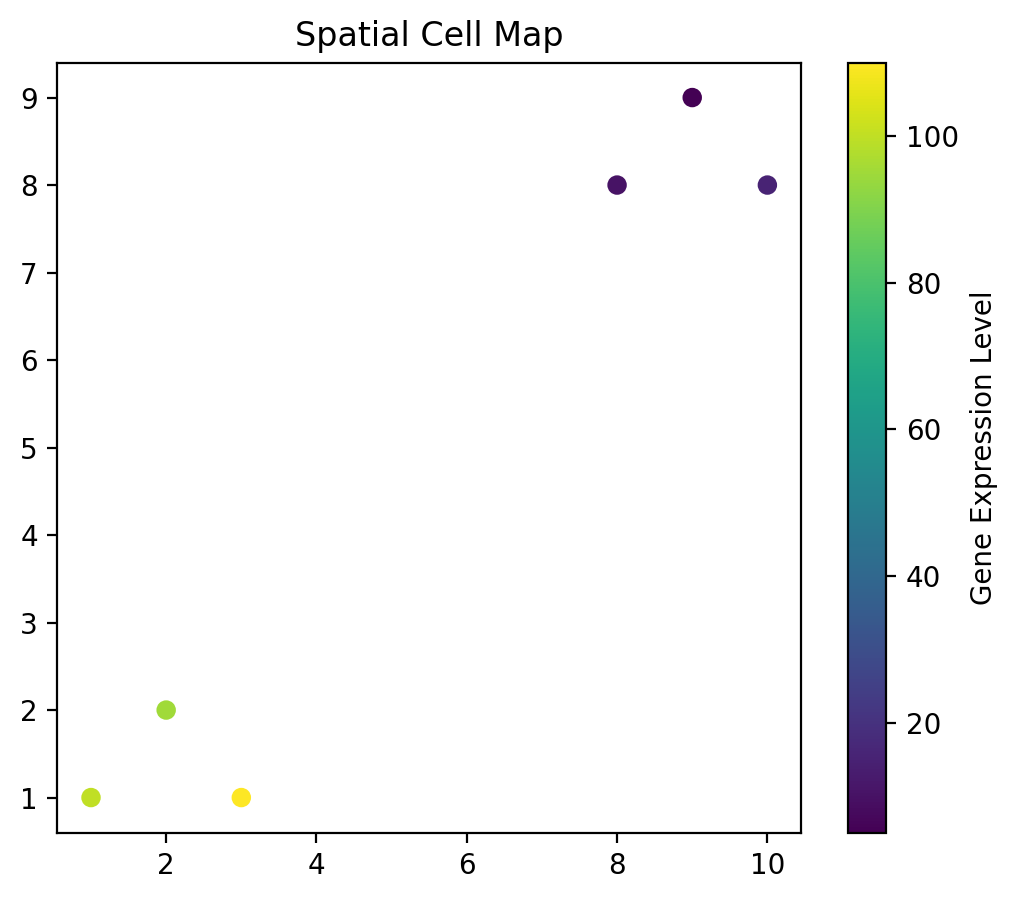
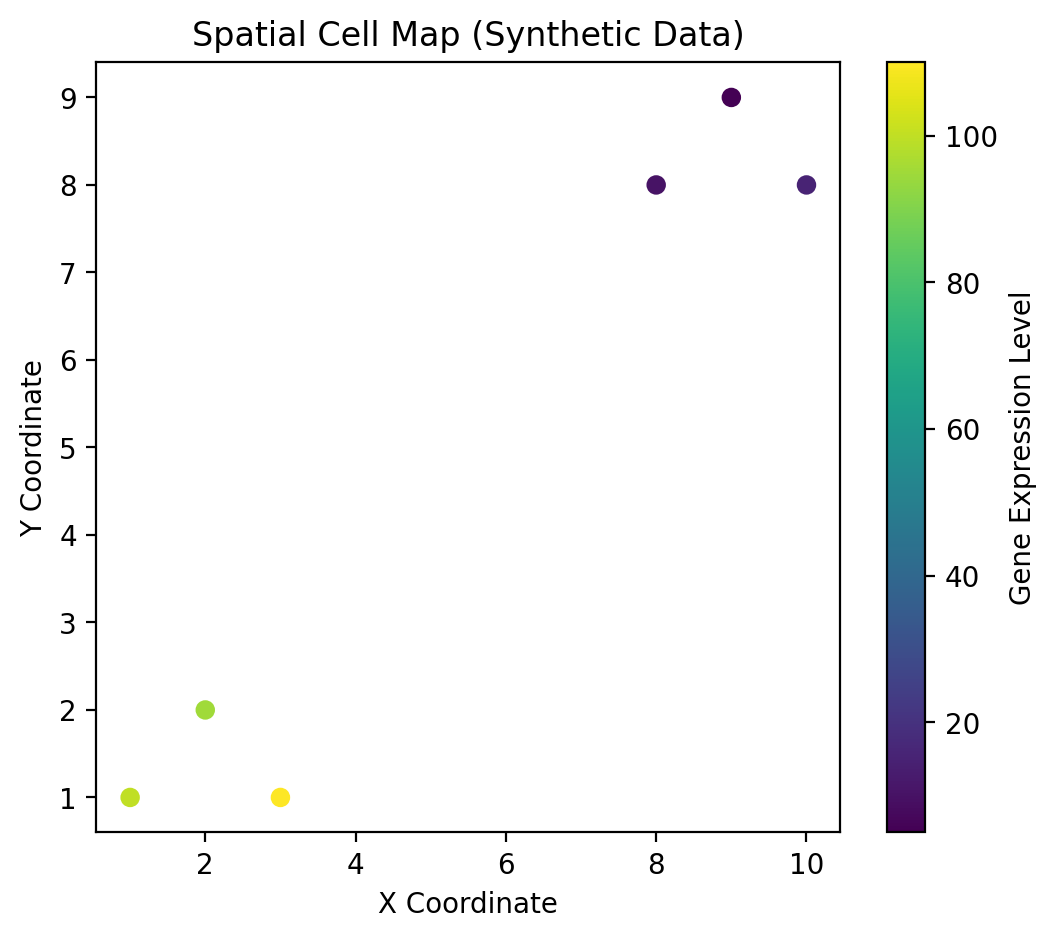
Imporve spatial visualization and documentation

diff --git a/spatial_transcriptomics/src/main.py b/spatial_transcriptomics/src/main.py
@@ -1,0 +1,48 @@
+
+# --- Import Libraries ---
+import matplotlib.pyplot as plt
+import pandas as pd
+
+
+# --- Generate Synthetic Data ---
+# Create example cell coordinates and gene expression values.
+# The first three cells represent a hypothetical cancer group,
+# and the remaining three represent a hypothetical normal group.
+# These labels are illustrative, not experimentally validated.
+
+data = {
+    "x": [1, 2, 3, 8, 9, 10],
+    "y": [1, 2, 1, 8, 9, 8],
+    "gene_expression": [100, 95, 110, 10, 5, 15]
+}
+
+# Convert the dictionary into a pandas DataFrame.
+df = pd.DataFrame(data)
+
+
+# --- Visualize Spatial Gene Expression ---
+# Plot cell locations and color each point by expression level.
+plt.figure(figsize=(6, 5))
+
+plt.scatter(
+    df["x"],
+    df["y"],
+    c=df["gene_expression"],
+    cmap="viridis"
+)
+
+# Add a colorbar to show expression intensity.
+plt.colorbar(label="Gene Expression Level")
+
+# Add labels and a title.
+plt.xlabel("X Coordinate")
+plt.ylabel("Y Coordinate")
+plt.title("Spatial Cell Map (Synthetic Data)")
+
+# Save and display the figure.
+plt.savefig(
+    "../outputs/spatial_cell_map.png",
+    dpi=200,
+    bbox_inches="tight"
+)
+plt.show()

diff --git a/spatial_transcriptomics/README.md b/spatial_transcriptomics/README.md
@@ -1,18 +1,36 @@
-# Spatial Transcriptomics (Toy Example)
+# Spatial Transcriptomics Visualization (Toy Example)
 
 ## Goal
-Build intuition for spatial transcriptomics by visualizing cell coordinates and overlaying a gene expression signal.
 
-## What I did
-- Created a small synthetic dataset of spatial coordinates (x, y) and expression values.
-- Plotted cells on a 2D map with color representing gene expression intensity.
-- Added a colorbar to enable quantitative interpretation.
-- Saved the figure to `outputs/` for reproducibility.
+Build a basic understanding of spatial transcriptomics by visualizing cell coordinates and gene expression levels.
 
-## Project structure
-- `src/main.py`: generates the synthetic data and plot
-- `outputs/spatial_cell_map.png`: saved figure
+## What I Did
 
-## Notes / Limitations
-- This is toy data (not real spatial transcriptomics).
-- Real workflows include QC, normalization, and spatial neighborhood analysis (often using tools like Scanpy/Squidpy).
+- Created a small synthetic dataset containing six cells with spatial coordinates (x, y) and gene expression values.
+- Used pandas to organize the data into a DataFrame.
+- Used matplotlib to visualize cell locations, with colors representing gene expression levels.
+- Added a colorbar to interpret expression intensity.
+- Saved the resulting figure for reproducibility.
+
+## Results
+
+The visualization shows two spatially separated groups of cells with different gene expression levels.
+
+In this hypothetical example, the first three cells represent a cancer group with higher expression, while the remaining three represent a normal group with lower expression.
+
+These patterns were intentionally created for visualization practice and do not represent biological findings.
+
+## Project Structure
+
+- `src/main.py`: Generates synthetic data and creates the visualization.
+- `outputs/spatial_cell_map.png`: Saved visualization.
+
+## Limitations
+
+- This project uses synthetic data rather than real spatial transcriptomics data.
+- No statistical testing or biological interpretation was performed.
+- Real spatial transcriptomics workflows require additional steps, such as quality control, normalization, and spatial analysis.
+
+## Next Steps
+
+Explore real spatial transcriptomics datasets and learn basic preprocessing and visualization using tools such as Scanpy or Squidpy.
